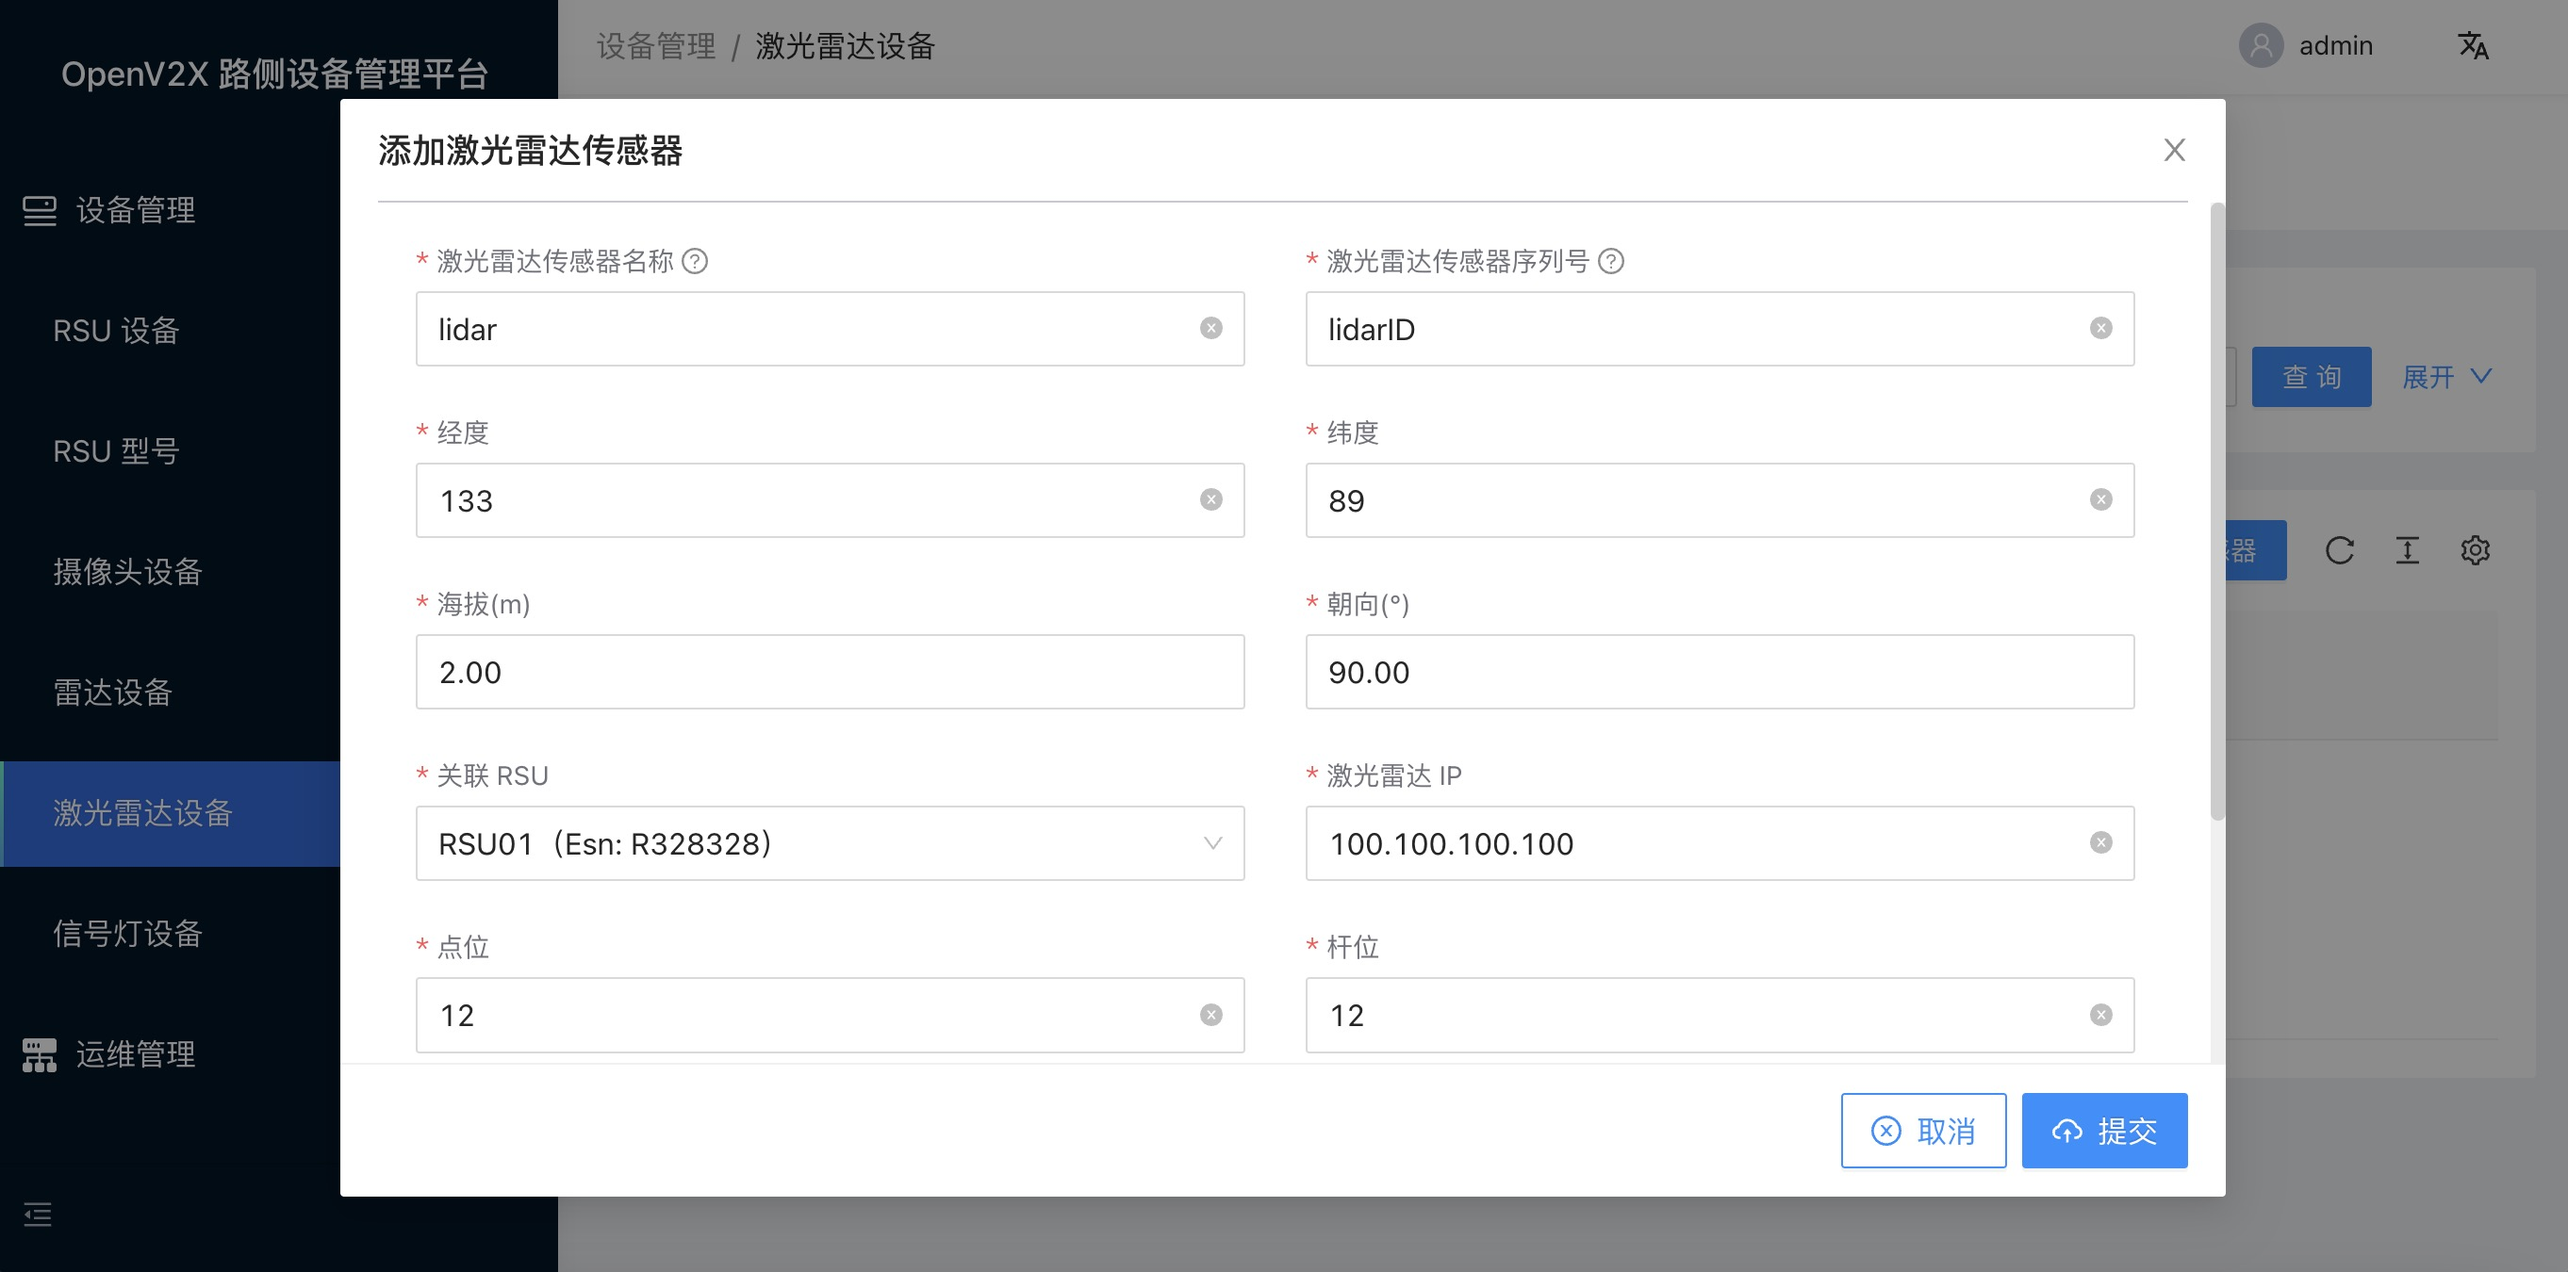
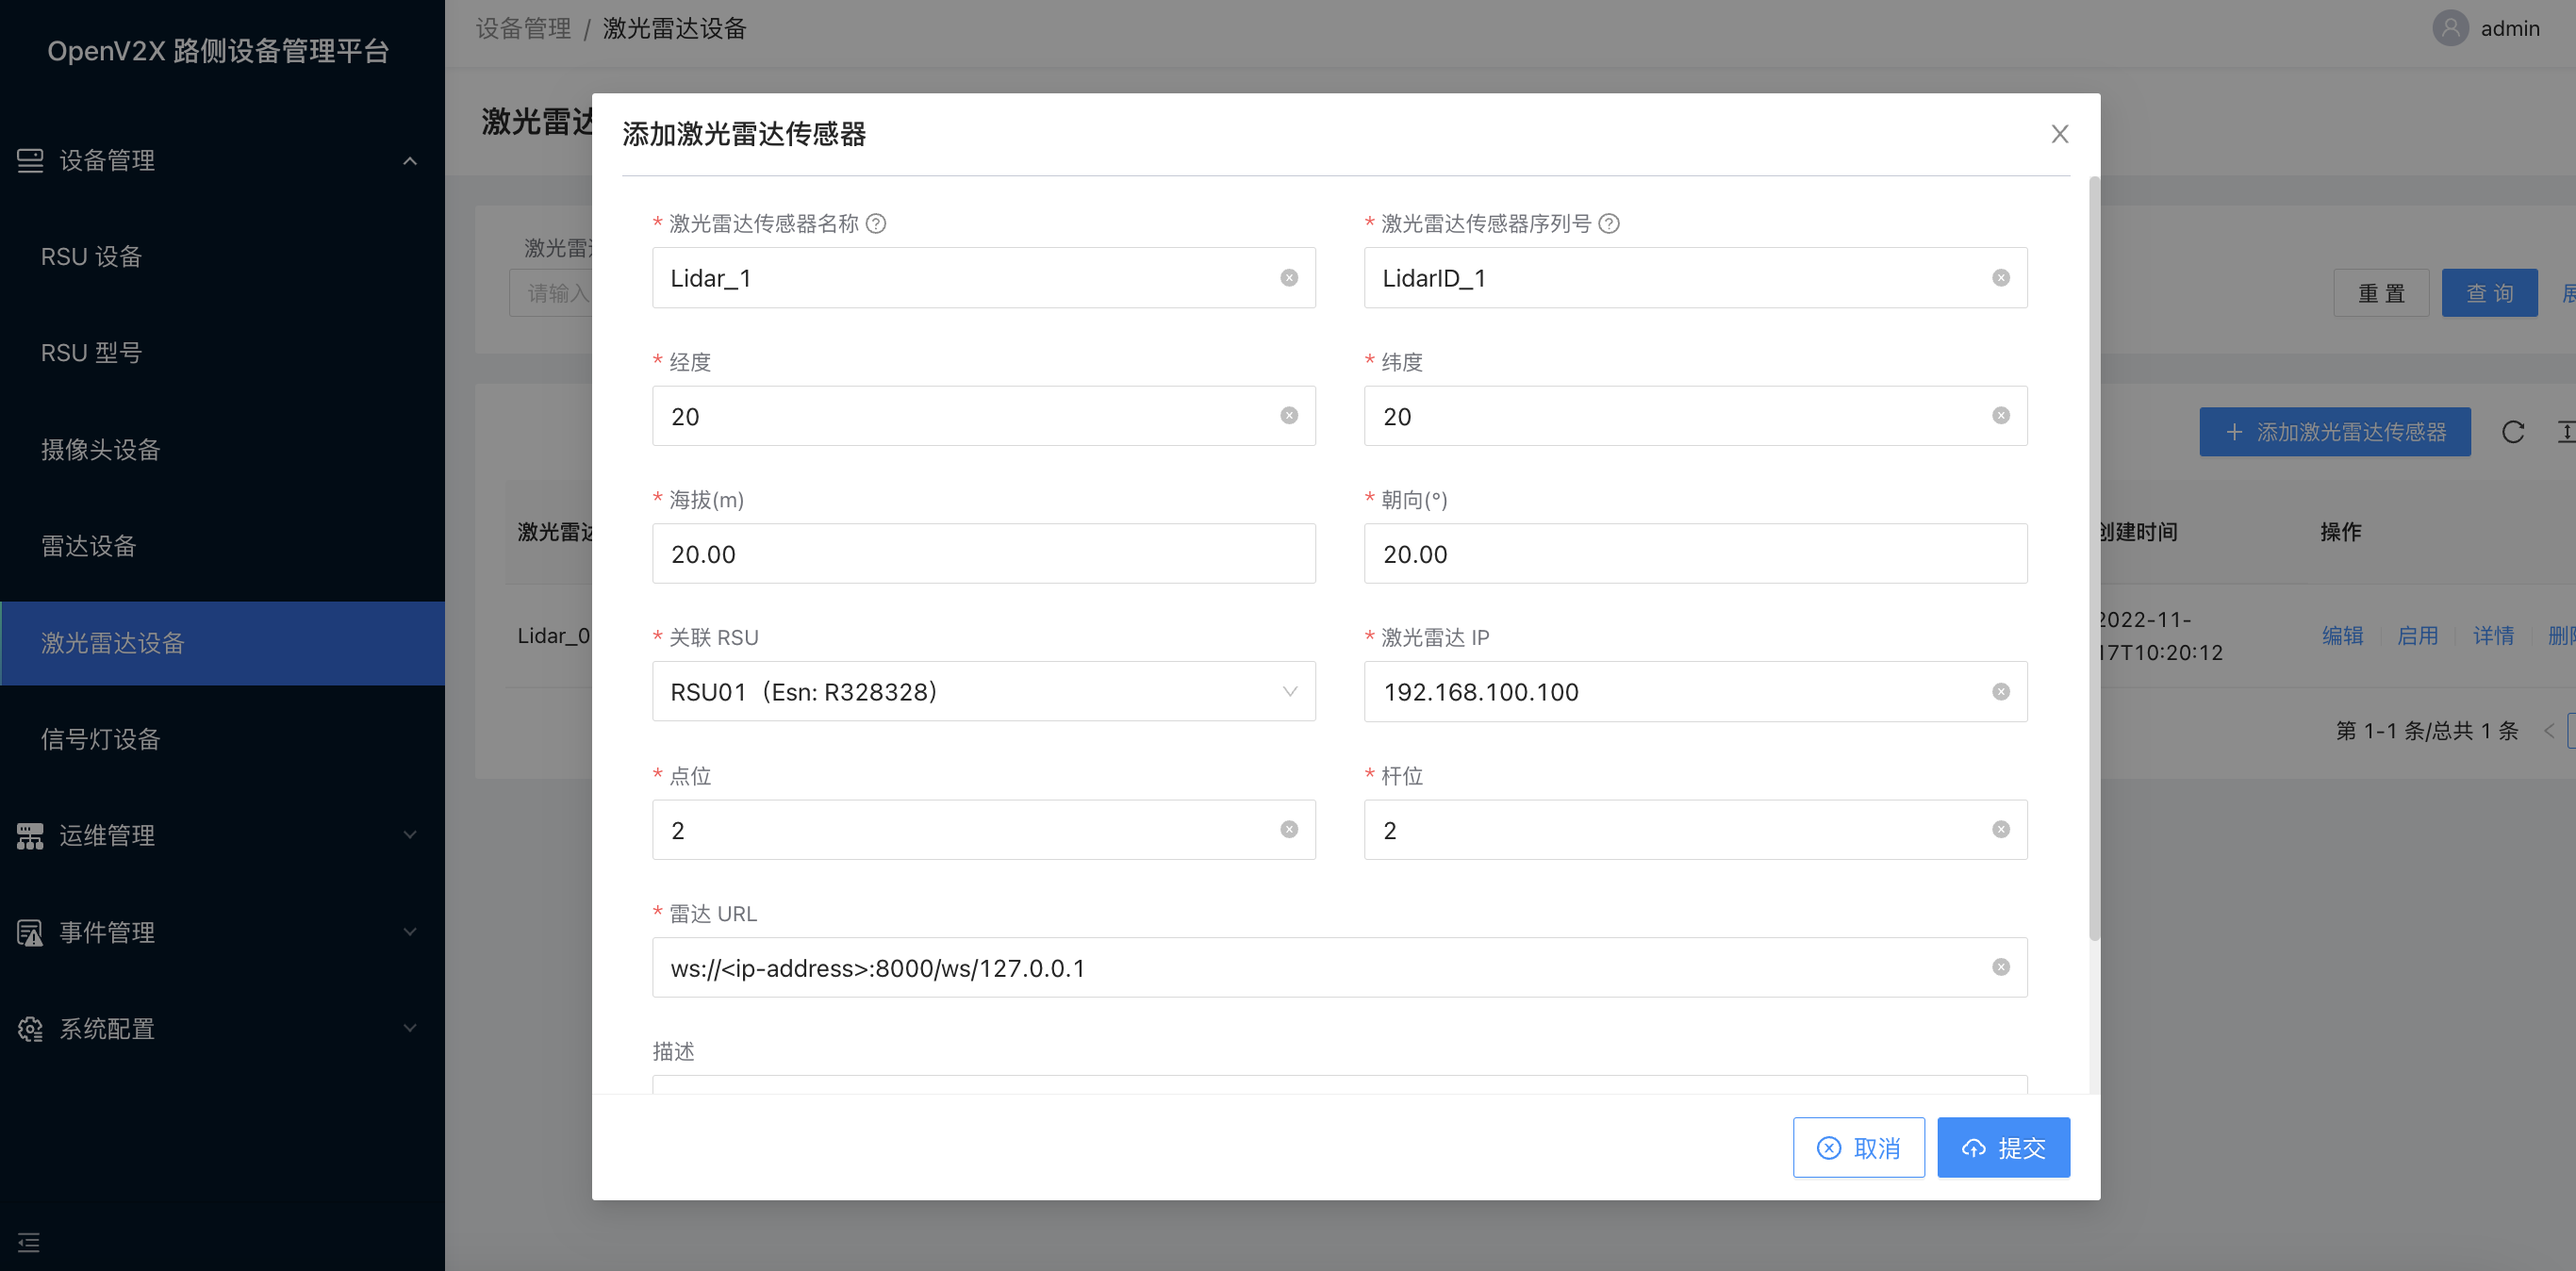
docs: supplemental lidar url field

diff --git a/docs/v2x-user-manual.md b/docs/v2x-user-manual.md
@@ -121,8 +121,8 @@ dandelion)可登录平台。
 
 ##### 4.2 新增激光雷达设备
 
-点击进入“设备管理 - 激光雷达设备”，点击“添加激光雷达传感器”，填入激光雷达传感名称、激光雷达传感器序列号、经度、纬度、海拔(m)、朝向(°)、关联 RSU、激光雷达 IP
-、点位、杆位以及描述信息，点击“提交”。
+点击进入“设备管理 - 激光雷达设备”，点击“添加激光雷达传感器”，填入激光雷达传感名称、激光雷达传感器序列号、经度、纬度、海拔(m)、朝向(°)、关联 RSU、激光雷达 IP 、点位、杆位、雷达
+URL 以及描述信息，点击“提交”。
 
 ![a](./images/operate_lidar_device-2.png)
 
@@ -855,7 +855,7 @@ https://pan.baidu.com/s/1suMwFqcewUGGEclSj5FZiw 提取码: m2m4
 
 #### 10.2 安装部署 OpenV2X
 
-根据 [快速安装手册](https://github.com/open-v2x/docs/blob/master/docs/v2x-quick-install.md) 部署 OpenV2X。
+根据 [快速安装手册](./v2x-quick-install.md) 部署 OpenV2X。
 
 #### 10.3 登录 OpenV2X 云控中心（OpenV2X Central Portal）
 
